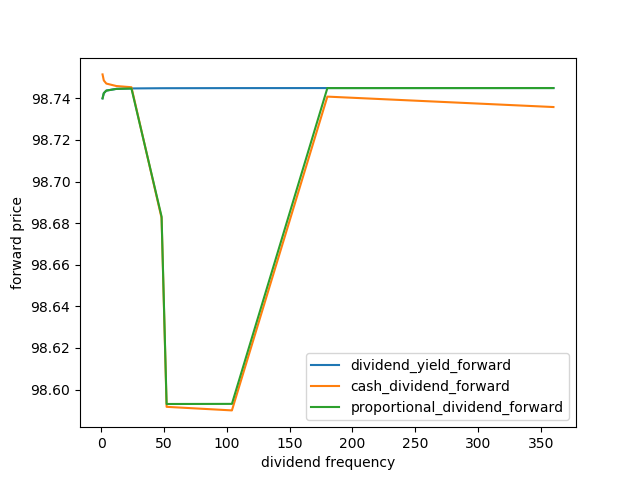
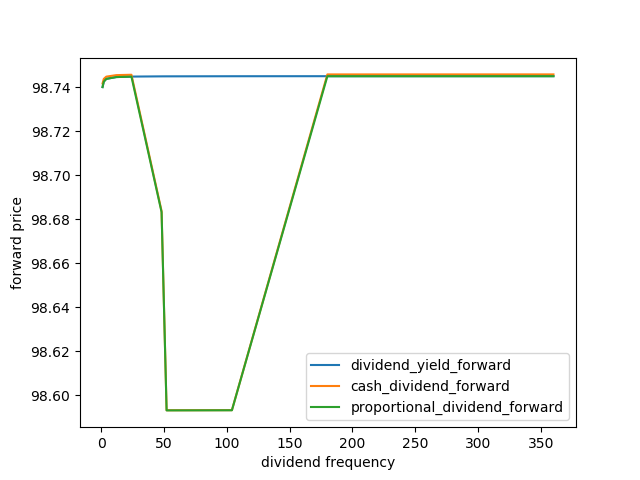
new conversion formula

diff --git a/PricingModel.py b/PricingModel.py
@@ -60,19 +60,23 @@ class MonteCarlo(PricingModel):
     def generate_ST(self, S0, vol, r, T, t, d, q, delta, frequency):
         n_timestep = T - t
         q1 = np.ones(n_timestep) * q
+
         d1 = np.zeros(n_timestep)
         delta1 = np.zeros(n_timestep)
         if frequency!=0:
             dt = 360//frequency
             if d is not None:
                 d1[dt-1::dt] = np.ones(len(d1[dt-1::dt])) * d
+                #print(d1)
             if delta is not None:
                 delta1[dt-1::dt] = np.ones(len(delta1[dt-1::dt])) * delta/frequency
+                #print('delta',delta)
         ST = np.array([S0] * self.n_path)  # S0
         for i in range(0, T - t):
             dS = ST * (np.ones(self.n_path) * (r - q1[i]) + vol * self.Wt[i:i + self.n_path]) - np.ones(self.n_path) * d1[
                 i]  # daily increment
             ST = (ST + dS) * (1 - delta1[i])  # discrete proportional dividend is paid at market close
+            #ST = S0 * math.exp()
             if min(ST) < 0:
                 print("cash divident: S", i, "<0")  # it the stock price is negative after paying dividend
         # TODO: contradicting basis

diff --git a/MarketData.py b/MarketData.py
@@ -55,7 +55,8 @@ class MarketData:
                 return 0
             else:
                 dt = frequency/360
-                return div_amount/frequency * self.spot * math.exp(self.r * dt)
+                #return div_amount/frequency * self.spot * math.exp(self.r * dt)
+                return self.spot * (1 - pow(1 - div_amount/frequency, frequency)) / (1 - math.exp(-self.r*1)) * (math.exp(self.r/frequency)-1)
             #delta * S0 * math.exp(r / i)
         elif fr_type == DividendType.DiscreteProp and to_type == DividendType.ContinuousYield:
             # TODO: remove hard code
